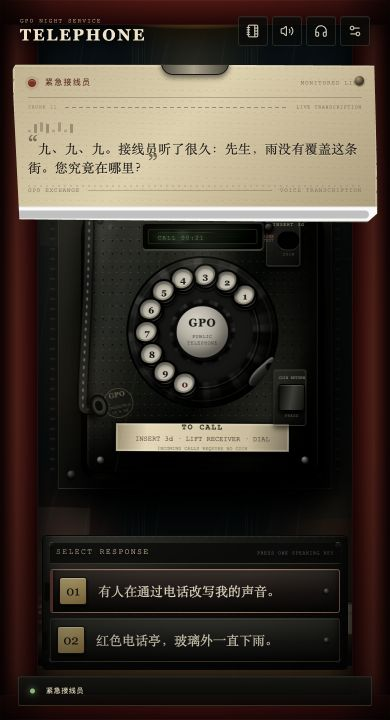
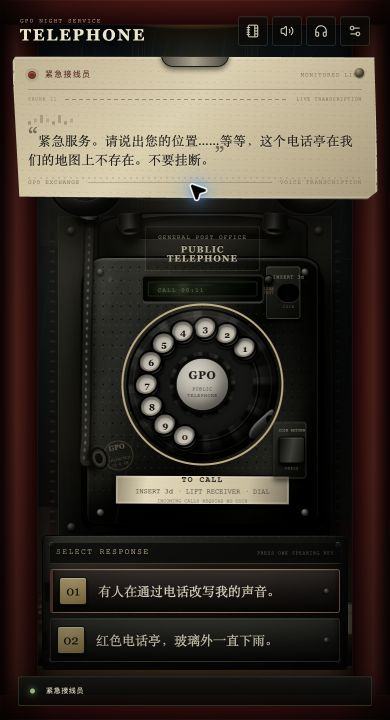
fix: refine compact mobile presentation

diff --git a/src/styles/telephone.css b/src/styles/telephone.css
@@ -250,6 +250,10 @@
 .intro-subtitle { margin: 12px 0 30px; color: #b69e6d; font: 11px/1 "Songti SC",Georgia,serif; letter-spacing: .32em; }
 .intro-card blockquote { margin: 0 auto 22px; color: #f0e8d7; font: italic 18px/1.7 Georgia,"Songti SC",serif; }
 .intro-card > p:not(.intro-subtitle) { margin: 0 auto; color: #aaa391; font: 12px/1.8 "Songti SC",serif; }
+.intro-premise { text-wrap: balance; }
+.intro-protocol { display:grid; grid-template-columns:1fr 1fr; gap:8px; width:min(440px,100%); margin:22px auto 0; }
+.intro-protocol span { display:grid; min-height:50px; align-content:center; gap:6px; padding:9px 12px; color:#d8cfba; border:1px solid rgba(181,153,94,.22); background:linear-gradient(180deg,rgba(62,54,39,.24),rgba(8,9,8,.32)); font:11px/1.25 "Songti SC",Georgia,serif; }
+.intro-protocol b { color:#907d56; font:6px/1 "Courier New",monospace; letter-spacing:.18em; }
 .enter-booth { display: grid; width: min(330px,100%); min-height: 66px; place-items: center; align-content: center; gap: 6px; margin: 30px auto 0; color: #211d17; border: 1px solid #d0b067; background: linear-gradient(150deg,#dfc784,#aa8845); box-shadow: inset 0 1px rgba(255,255,255,.5), 0 8px 24px rgba(0,0,0,.36); }
 .enter-booth:hover { background: #e6ce8a; translate: 0 -2px; }
 .enter-booth span { font: 700 13px/1 Georgia,"Songti SC",serif; letter-spacing: .12em; }
@@ -1059,7 +1063,7 @@
     width: 100%;
     height: 100dvh;
     min-height: 0;
-    overflow: hidden;
+    overflow: clip;
     overscroll-behavior: none;
     /* The fixed, clipped scene prevents page travel while still allowing
        explicitly scrollable overlays to opt into vertical touch panning. */
@@ -1101,7 +1105,7 @@
   .phone-assembly {
     position: absolute;
     left: 50%;
-    top: max(88px, calc(12dvh + 18px));
+    top: max(104px, calc(14dvh + 20px));
     width: min(78vw, 310px, calc((100dvh - 235px) * .7754));
     min-width: 0;
     height: auto;
@@ -1110,6 +1114,13 @@
     translate: -50% 0;
     transform: none !important;
     contain: layout;
+  }
+
+  /* Keep the lifted receiver below the transcript edge instead of letting the
+     full-width paper cover it. The cabinet moves as one physical object, so
+     the cord anchors and handset proportions remain coherent. */
+  .telephone-scene:is(.phase-inCall, .phase-awaitingChoice, .phase-timeoutWarning) .phone-assembly {
+    translate: -50% clamp(30px, 5dvh, 36px);
   }
 
   .rotary-dial {
@@ -1173,17 +1184,21 @@
   .call-text-overlay {
     left: 12px;
     right: 12px;
-    top: max(64px, calc(env(safe-area-inset-top) + 54px));
+    top: max(56px, calc(env(safe-area-inset-top) + 50px));
     max-height: 34dvh;
     width: auto;
     padding: 14px 15px 13px;
     overflow-y: auto;
+    overflow-x: hidden;
     overscroll-behavior: contain;
+    scrollbar-width: none;
     touch-action: pan-y;
     transform: none;
     z-index: 44;
   }
+  .call-text-overlay::-webkit-scrollbar { display: none; width: 0; height: 0; }
   .call-text-overlay p { margin-top: 10px; font-size: 13px; line-height: 1.48; }
+  .call-text-overlay p { overflow-wrap: anywhere; }
   .call-text-overlay footer { margin-top: 10px; }
 
   .choice-clouds {
@@ -1219,8 +1234,11 @@
   }
   .number-book { inset: 62px 14px 42px; }
   .clue-card { left: 14px; right: 14px; bottom: 44px; }
+  .intro-curtain { padding: 14px; }
   .intro-card { width: calc(100vw - 28px); padding: 32px 20px 28px; }
   .intro-card h1 { font-size: clamp(31px, 10.5vw, 40px); }
+  .intro-protocol { grid-template-columns:1fr; gap:5px; margin-top:17px; }
+  .intro-protocol span { min-height:42px; grid-template-columns:72px 1fr; align-items:center; gap:8px; padding:7px 10px; text-align:left; }
 
   .telephone-scene::after { mix-blend-mode: normal; }
   .street-reflection { opacity: .24; filter: none; }
@@ -1228,4 +1246,32 @@
   .rain-near::after { display: none; }
   .window-condensation i:nth-child(n + 4),
   .street-bokeh i:nth-child(n + 3) { display: none; }
+}
+
+@media (max-width: 360px) {
+  .phone-assembly {
+    width: min(72vw, 240px, calc((100dvh - 220px) * .72));
+  }
+}
+
+@media (max-width: 760px) and (max-height: 620px) {
+  /* On short phones the transcript becomes a compact, internally scrollable
+     strip so the lifted receiver still has a visible physical silhouette. */
+  .call-text-overlay {
+    top: max(48px, calc(env(safe-area-inset-top) + 44px));
+    max-height: 20dvh;
+    padding: 10px 12px 9px;
+  }
+  .call-text-overlay header { padding-bottom: 6px; }
+  .call-text-overlay p { margin-top: 7px; font-size: 12px; line-height: 1.36; }
+  .call-text-overlay footer { margin-top: 6px; }
+  .transcript-routing { display: none; }
+  .intro-card { padding: 21px 16px 17px; }
+  .intro-card h1 { margin-top: 16px; font-size: 30px; }
+  .intro-subtitle { margin: 8px 0 17px; }
+  .intro-card blockquote { margin-bottom: 13px; font-size: 14px; line-height: 1.5; }
+  .intro-card > p:not(.intro-subtitle) { font-size: 11px; line-height: 1.55; }
+  .intro-protocol { margin-top: 13px; }
+  .enter-booth { min-height: 52px; margin-top: 15px; }
+  .intro-progress { margin-top: 9px; }
 }

diff --git a/src/components/TelephoneScene.tsx b/src/components/TelephoneScene.tsx
@@ -584,9 +584,13 @@ export function TelephoneScene() {
             <div className="intro-kicker"><span />LONDON · AFTER MIDNIGHT<span /></div>
             <h1>TELEPHONE</h1>
             <p className="intro-subtitle">子午礼仪交换所</p>
-            <blockquote>“如果电话先响了，别让它听出你在害怕。”</blockquote>
-            <p>伦敦的雨夜。一个不在地图上的公共电话亭。<br />台面每晚会留下 1–3 枚硬币：拿起硬币、投入三便士、再提起听筒拨号。来电可以直接接听。</p>
-            <button type="button" className="enter-booth" onClick={startExperience}><span>进入电话亭</span><small>建议开启声音 · 支持鼠标、触摸与数字键</small></button>
+            <blockquote>“午夜以后，交换台不再记录姓名。它只记录你借用了谁的声音。”</blockquote>
+            <p className="intro-premise">雨把伦敦冲成一片模糊的黑。<br />街角这座不在地图上的电话亭，却像是一直在等你。</p>
+            <div className="intro-protocol" aria-label="电话操作提示">
+              <span><b>OUTGOING</b>投币，拨出电话</span>
+              <span><b>INCOMING</b>铃响，拿起听筒接听</span>
+            </div>
+            <button type="button" className="enter-booth" onClick={startExperience}><span>进入电话亭</span><small>建议开启声音 · 线路正在等待</small></button>
             <div className="intro-progress">第 {loadProgress().attempts + 1} 次夜班</div>
           </div>
         </section>

diff --git a/docs/TELEPHONE_MOBILE_ACCEPTANCE.md b/docs/TELEPHONE_MOBILE_ACCEPTANCE.md
@@ -18,10 +18,13 @@
 
 ### 构图与可读性
 
-- 电话机宽度由视口宽、高共同约束，在 390×720 下为约 304 px，在 320×568 下为约 250 px。
+- 电话机宽度由视口宽、高共同约束，在 390×720 下为约 304 px；≤360 px 的窄屏额外缩小，在 320×568 下约为 230 px。
 - 置物台固定在屏幕底部，硬币增大到 42 px 基准尺寸，并强化黄铜高光、边缘与投影。
 - 工具栏、状态条、通话稿纸和回复按键使用独立的手机端间距与字体比例。
 - 回复面板左右各保留 42 px，完整落在红色电话亭框架内。
+- 电话待机位置整体下移；进入通话后再下沉 30–36 px，使抬起的听筒从消息纸张下方露出。
+- 620 px 以下的短屏使用无可见滚动条的紧凑消息纸；纵向内容仍可触摸滚动，横向溢出被裁切。
+- 开场改为雨夜交换台叙事，只保留“投币外拨”和“铃响接听”两条操作提示。
 
 ### 拨号性能
 
@@ -37,7 +40,8 @@
 | 390×720 电话机宽度 | 约 359 px | 约 304 px |
 | 390×720 场景滚动位置（拖动后） | 166 px | 0 px |
 | 390×720 置物台 | 底部越界 | 完整位于 556–716 px |
-| 320×568 电话机宽度 | 几乎占满 | 约 250 px |
+| 320×568 电话机宽度 | 几乎占满 | 约 230 px |
+| 320×568 消息纸可见滚动条 | 水平、垂直均出现 | 均隐藏 |
 | 拨号移动事件 / 绘制帧 | 每次移动均可能更新 | 12 / 6（帧合并） |
 
 ## 截图迭代
@@ -60,7 +64,13 @@
 
 ![390×720 通话与回应](screenshots-mobile-polish/10-final-call.jpg)
 
-通话状态实测：场景 `scrollTop = 0`；稿纸范围为 `x=12–378`；回复面板范围为 `x=42–348`，未与电话亭左右框架相交。
+![320×568 极窄屏通话](screenshots-mobile-polish/11-final-compact-call.jpg)
+
+通话状态实测：场景 `scrollTop = 0`；390×720 稿纸范围为 `x=12–378`，回复面板范围为 `x=42–348`；320×568 电话宽度约 230 px，听筒下沿位于消息纸下方约 38 px，且消息纸没有可见滚动条。
+
+### 最终开场
+
+![320×568 叙事开场](screenshots-mobile-polish/12-final-intro.jpg)
 
 ## 自动化验证
 